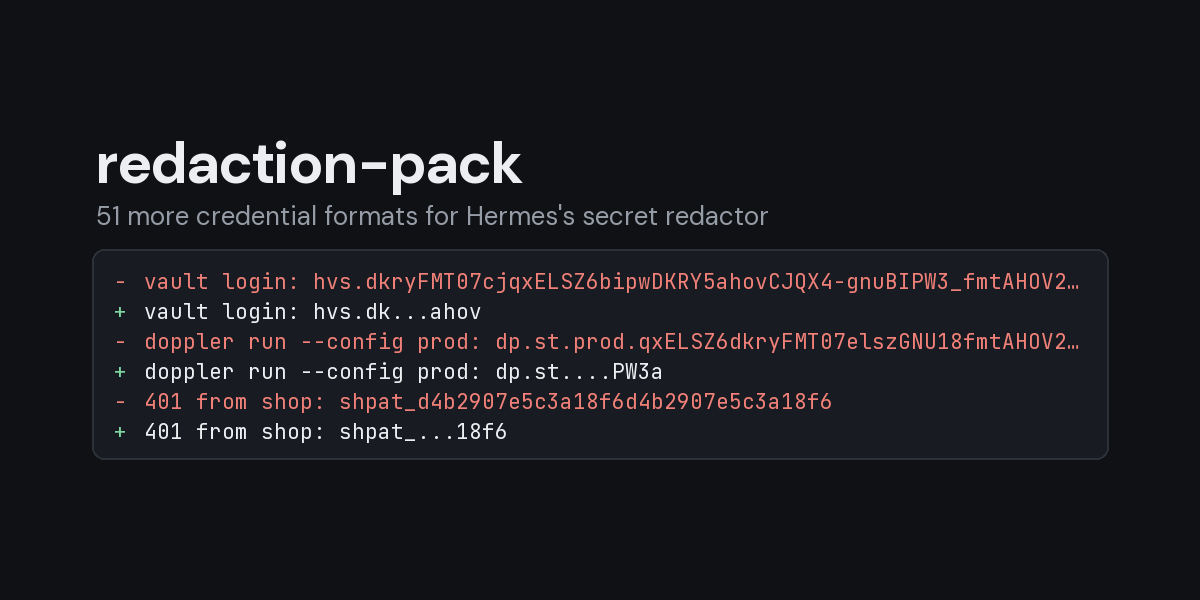
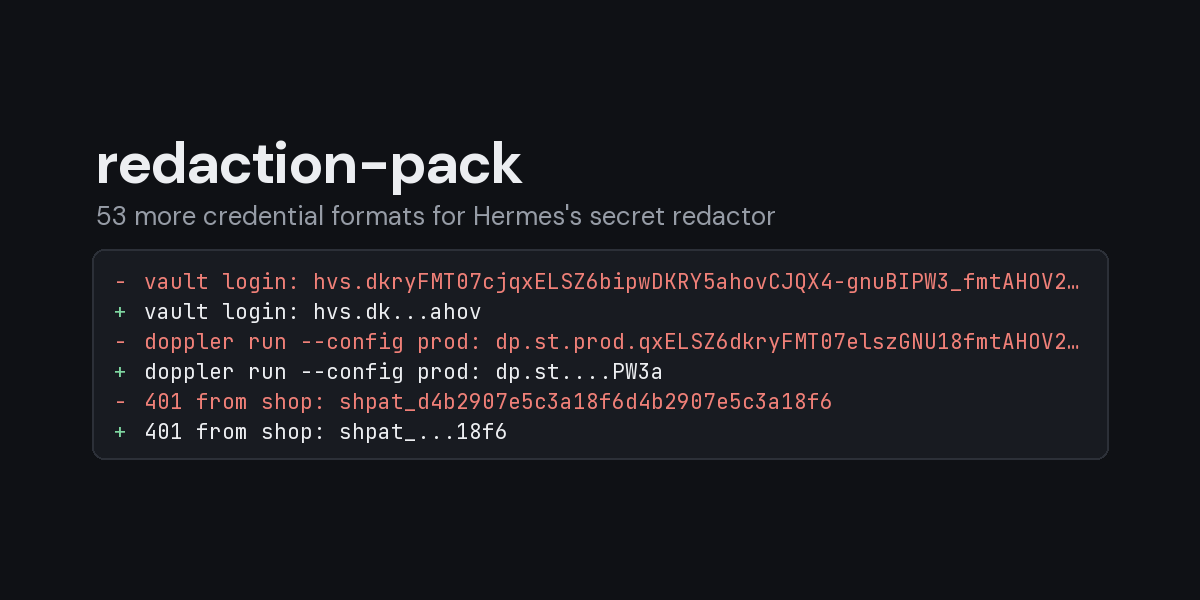
feat: 1.3.0, mask JFrog Artifactory API keys and reference tokens
Adds two formats Hermes does not mask on its own in free text: Artifactory
API keys (AKCp + 69 alphanumerics; gitleaks artifactory-api-key and the
TruffleHog artifactory detector agree) and Artifactory reference tokens
(always 64 characters starting with cmVmdGtu, the base64 of "reftkn", per
the TruffleHog artifactoryreferencetoken detector; a subset of gitleaks'
broader cmVmd rule). Neither has an open Hermes pull request. Resend's re_
keys are listed as left out: the prefix is too common in code output to
gate the matcher cheaply. The card is re-rendered with the new count.

Changed region(s): [[0.0925, 0.33, 0.6475, 0.39]]

diff --git a/tests/test_formats.py b/tests/test_formats.py
@@ -52,6 +52,7 @@ def test_samples_match_whole(pattern):
     "lsv2_pt_ and lsv2_sk_ are LangSmith prefixes; pcsk_ is Pinecone's; wandb_v1_ is W&B's",
     "dckr_pat_ and dckr_oat_ are Docker Hub prefixes; figd_ and figp_ are Figma's; sbp_ is Supabase's",
     "set TS_AUTHKEY=tskey-auth-XXXX-YYYY, see tskey-api- and tskey-client- in the Tailscale docs",
+    "AKCp keys and cmVmdGtu reference tokens come from JFrog Artifactory",
 ])
 def test_prose_with_vendor_prefixes_is_untouched(pack, text):
     assert _matcher(pack.patterns.PATTERNS).search(text) is None
@@ -62,6 +63,10 @@ def test_longer_run_is_not_a_partial_match(pack):
     assert _matcher(pack.patterns.PATTERNS).search("shpat_" + "a" * 33) is None
     assert _matcher(pack.patterns.PATTERNS).search("dckr_pat_" + "a" * 28) is None
     assert _matcher(pack.patterns.PATTERNS).search("sbp_" + "a" * 41) is None
+    assert _matcher(pack.patterns.PATTERNS).search("AKCp" + "a" * 70) is None
+    assert _matcher(pack.patterns.PATTERNS).search("cmVmdGtu" + "a" * 57) is None
+    # Artifactory reference tokens are always 64 characters: a shorter run is not one either.
+    assert _matcher(pack.patterns.PATTERNS).search("cmVmdGtu" + "a" * 55) is None
 
 
 def test_supabase_token_body_is_hex(pack):

diff --git a/redaction-pack/patterns.py b/redaction-pack/patterns.py
@@ -148,6 +148,12 @@ FORMATS: tuple[TokenFormat, ...] = (
     TokenFormat("Clojars", "deploy token",
                 r"CLOJARS_[A-Za-z0-9]{60}",
                 "gitleaks:clojars-api-token"),
+    TokenFormat("JFrog Artifactory", "API key",
+                r"AKCp[A-Za-z0-9]{69}",
+                "gitleaks:artifactory-api-key; trufflehog:artifactory"),
+    TokenFormat("JFrog Artifactory", "reference token",
+                r"cmVmdGtu[A-Za-z0-9]{56}",
+                "trufflehog:artifactoryreferencetoken; gitleaks:artifactory-reference-token"),
     TokenFormat("Typeform", "personal access token",
                 r"tfp_[A-Za-z0-9_.=-]{59}",
                 "gitleaks:typeform-api-token"),

diff --git a/tests/conftest.py b/tests/conftest.py
@@ -107,6 +107,8 @@ def _samples() -> dict[str, list[str]]:
         r"rdme_[a-z0-9]{70}": ["rdme_" + fill(LOWER_ALNUM, 70)],
         r"rubygems_[a-f0-9]{48}": ["rubygems_" + fill(HEX, 48)],
         r"CLOJARS_[A-Za-z0-9]{60}": ["CLOJARS_" + fill(ALNUM, 60)],
+        r"AKCp[A-Za-z0-9]{69}": ["AKCp" + fill(ALNUM, 69)],
+        r"cmVmdGtu[A-Za-z0-9]{56}": ["cmVmdGtu" + fill(ALNUM, 56)],
         r"tfp_[A-Za-z0-9_.=-]{59}": ["tfp_" + fill(ALNUM, 59)],
         r"fio-u-[A-Za-z0-9_=-]{64}": ["fio-u-" + fill(URLSAFE, 64)],
         r"dckr_pat_[A-Za-z0-9_-]{27}": ["dckr_pat_" + fill(ALNUM, 13) + "-_" + fill(ALNUM, 12, 1)],

diff --git a/README.md b/README.md
@@ -1,9 +1,9 @@
 # redaction-pack
 
-A Hermes plugin that teaches the built-in secret redactor 51 more vendor
+A Hermes plugin that teaches the built-in secret redactor 53 more vendor
 credential formats: HashiCorp Vault, Doppler, Amazon Bedrock, Supabase,
-Tailscale, Docker Hub, LangSmith, Pinecone, Grafana, Sentry, Shopify, Postman,
-Databricks and others. It registers regexes and nothing else.
+Tailscale, Docker Hub, JFrog Artifactory, LangSmith, Pinecone, Grafana, Sentry,
+Shopify, Postman, Databricks and others. It registers regexes and nothing else.
 
 ## Why
 
@@ -85,6 +85,8 @@ these formats as well as the built-in ones.
 | ReadMe | API key | `rdme_[a-z0-9]{70}` | gitleaks |
 | RubyGems | API key | `rubygems_[a-f0-9]{48}` | gitleaks |
 | Clojars | deploy token | `CLOJARS_[A-Za-z0-9]{60}` | gitleaks |
+| JFrog Artifactory | API key | `AKCp[A-Za-z0-9]{69}` | gitleaks |
+| JFrog Artifactory | reference token | `cmVmdGtu[A-Za-z0-9]{56}` | trufflehog |
 | Typeform | personal access token | `tfp_[A-Za-z0-9_.=-]{59}` | gitleaks |
 | Frame.io | developer token | `fio-u-[A-Za-z0-9_=-]{64}` | gitleaks |
 | Docker Hub | personal access token | `dckr_pat_[A-Za-z0-9_-]{27}` | trufflehog |
@@ -126,7 +128,7 @@ character classes instead of `(?i)`, no capturing groups, no top-level `|`.
   API keys have a documented prefix but no published length or alphabet, so a
   pattern would be a guess.
 - **Formats without a distinctive literal prefix** (Terraform Cloud, Mailgun
-  `key-`, Airtable `pat`). Hermes needs a literal prefix to gate each pattern
+  `key-`, Airtable `pat`, Resend `re_`). Hermes needs a literal prefix to gate each pattern
   cheaply, and a short common one would run the full matcher on most lines.
 
 ## Security and footprint

diff --git a/redaction-pack/README.md b/redaction-pack/README.md
@@ -1,9 +1,9 @@
 # redaction-pack
 
-A Hermes plugin that teaches the built-in secret redactor 51 more vendor
+A Hermes plugin that teaches the built-in secret redactor 53 more vendor
 credential formats: HashiCorp Vault, Doppler, Amazon Bedrock, Supabase,
-Tailscale, Docker Hub, LangSmith, Pinecone, Grafana, Sentry, Shopify, Postman,
-Databricks and others. It registers regexes and nothing else.
+Tailscale, Docker Hub, JFrog Artifactory, LangSmith, Pinecone, Grafana, Sentry,
+Shopify, Postman, Databricks and others. It registers regexes and nothing else.
 
 ## Why
 
@@ -85,6 +85,8 @@ these formats as well as the built-in ones.
 | ReadMe | API key | `rdme_[a-z0-9]{70}` | gitleaks |
 | RubyGems | API key | `rubygems_[a-f0-9]{48}` | gitleaks |
 | Clojars | deploy token | `CLOJARS_[A-Za-z0-9]{60}` | gitleaks |
+| JFrog Artifactory | API key | `AKCp[A-Za-z0-9]{69}` | gitleaks |
+| JFrog Artifactory | reference token | `cmVmdGtu[A-Za-z0-9]{56}` | trufflehog |
 | Typeform | personal access token | `tfp_[A-Za-z0-9_.=-]{59}` | gitleaks |
 | Frame.io | developer token | `fio-u-[A-Za-z0-9_=-]{64}` | gitleaks |
 | Docker Hub | personal access token | `dckr_pat_[A-Za-z0-9_-]{27}` | trufflehog |
@@ -126,7 +128,7 @@ character classes instead of `(?i)`, no capturing groups, no top-level `|`.
   API keys have a documented prefix but no published length or alphabet, so a
   pattern would be a guess.
 - **Formats without a distinctive literal prefix** (Terraform Cloud, Mailgun
-  `key-`, Airtable `pat`). Hermes needs a literal prefix to gate each pattern
+  `key-`, Airtable `pat`, Resend `re_`). Hermes needs a literal prefix to gate each pattern
   cheaply, and a short common one would run the full matcher on most lines.
 
 ## Security and footprint
